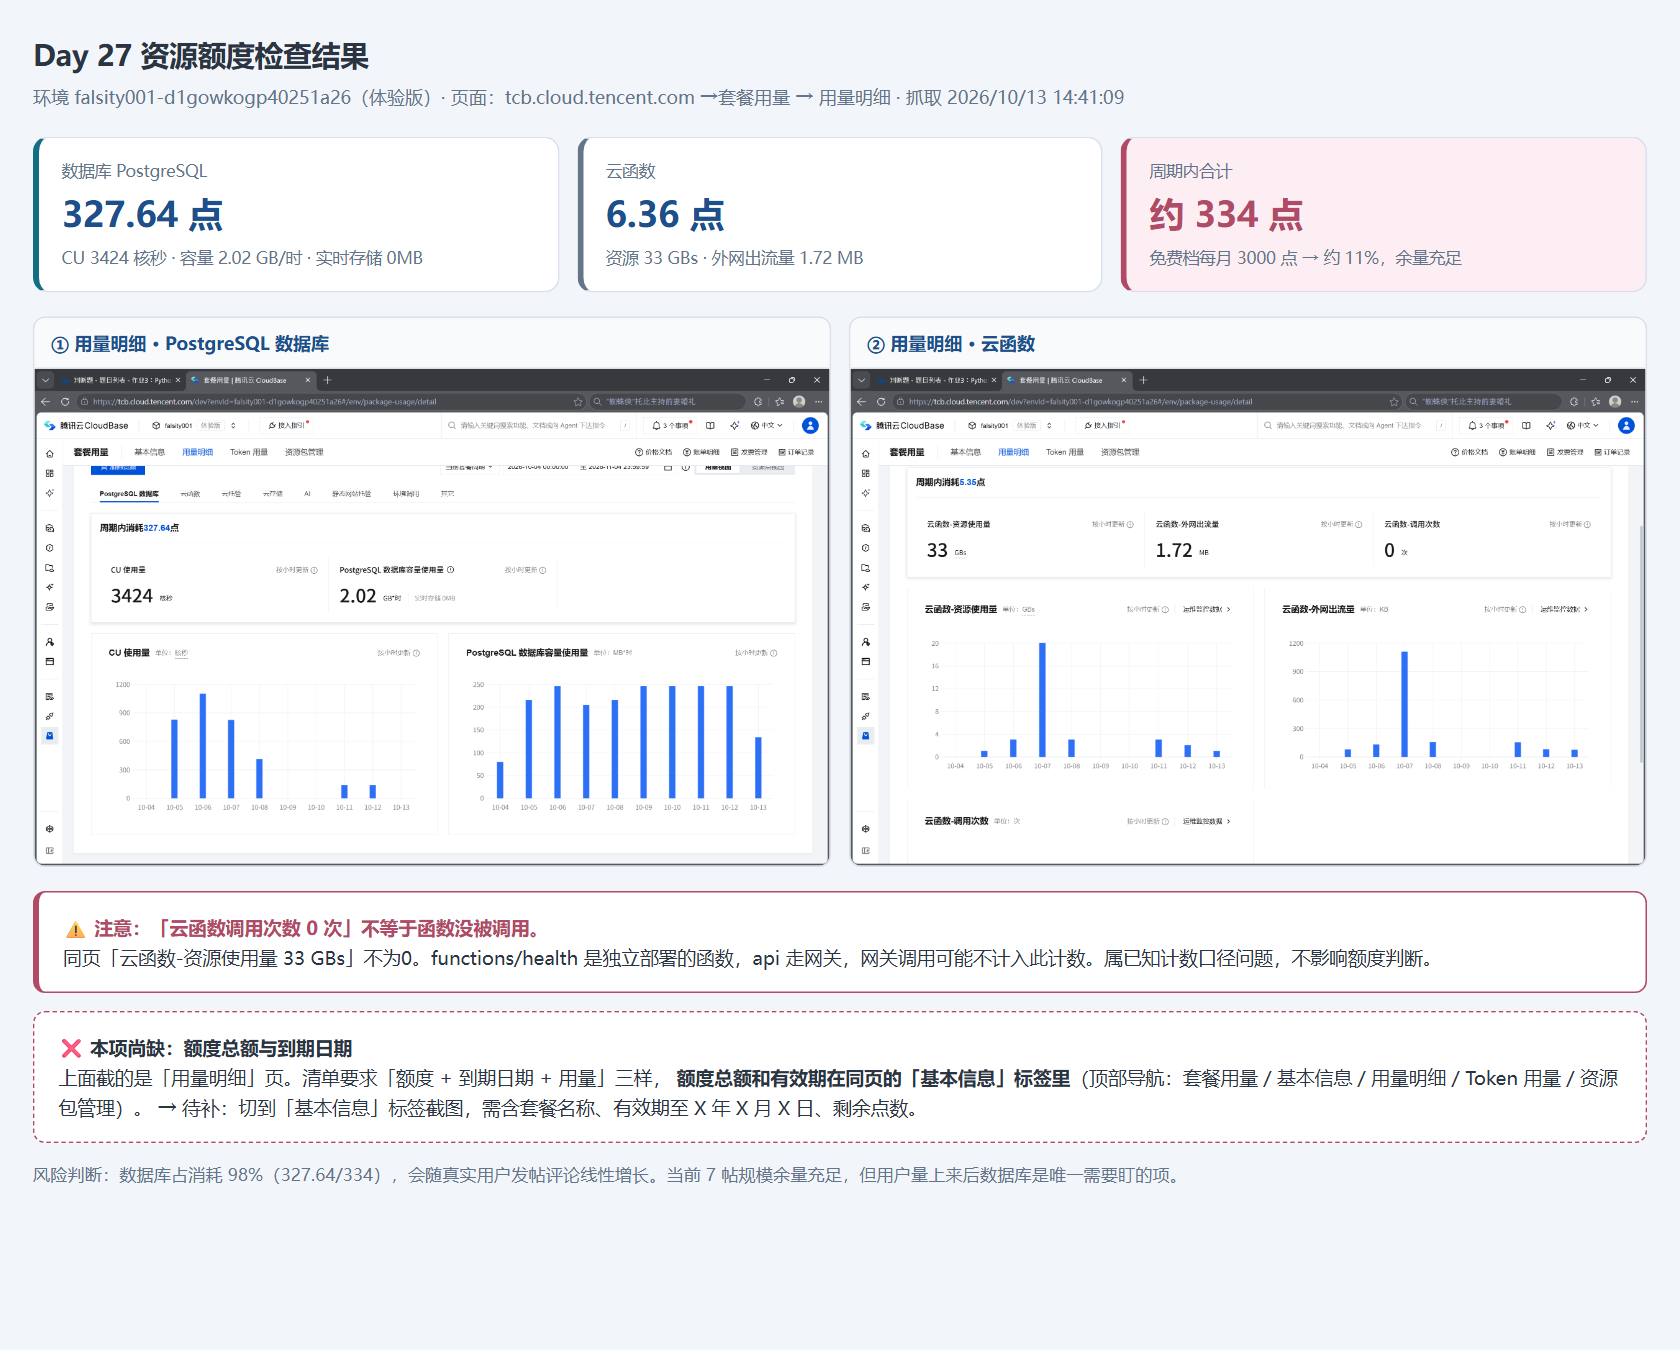
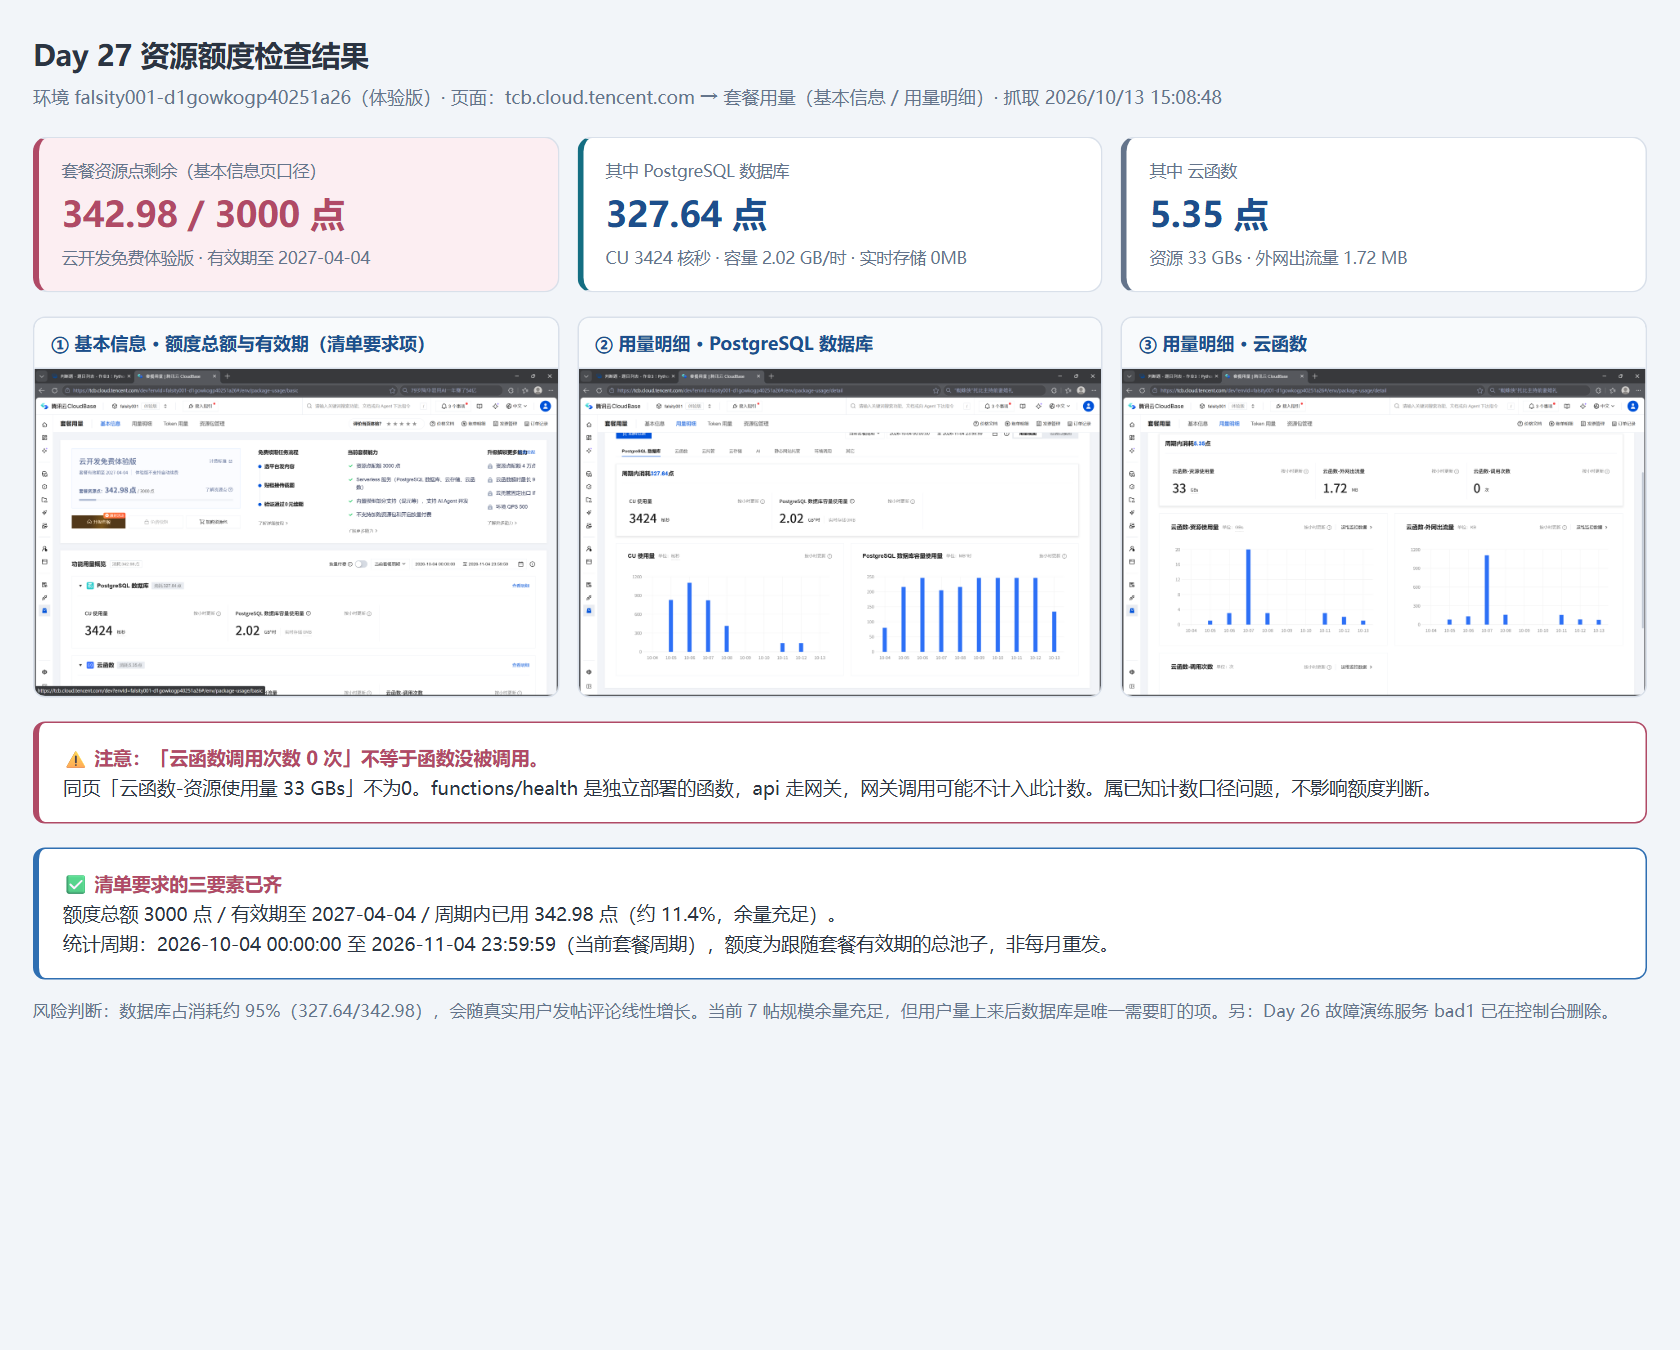
Day 27｜补资源额度「基本信息」页，资源检查项从部分完成改为已完成
改了什么：day27-第三方试用记录.md 的资源章节重写，补额度总额 3000 点、有效期至 2027-04-04、已用 342.98 点（11.4%），并纠正「每月 3000 点」为「跟随套餐有效期的总池子」；云函数消耗按基本信息页口径订正为 5.35 点。day27-截图2-资源检查结果.png 重新生成，把基本信息页并入取证图，删掉「尚缺额度与到期」的缺口块。
加了什么：day27-out/资源检查-基本信息页.png，CloudBase 套餐用量基本信息页原始截图。

diff --git a/day27-第三方试用记录.md b/day27-第三方试用记录.md
@@ -85,32 +85,36 @@ GET /api/posts → 200，count = 7（与试用前一致）
 
 ## 三、资源额度检查
 
-### 已查到（`day27-截图2-资源检查-云函数用量.png` + PostgreSQL 截图）
+### 清单要求的三要素（已齐）
+
+| 项目 | 数值 | 出处 |
+|---|---|---|
+| **额度总额** | **3000 点**（资源点配额） | 基本信息页 · 当前套餐能力 |
+| **有效期至** | **2027-04-04**（套餐有效期，不支持自动续费） | 基本信息页 · 云开发免费体验版 |
+| **周期内已用** | **342.98 点** → 约 **11.4%** | 基本信息页 · 套餐资源点 |
+| 统计周期 | 2026-10-04 00:00:00～ 2026-11-04 23:59:59（当前套餐周期） | 基本信息页 · 功能用量概览 |
+
+> 额度是**跟随套餐有效期的总池子**，不是每月重发，所以「每月 3000 点」这个说法不准确。
+
+### 周期内消耗拆分（用量明细页）
 
 | 项目 | 周期内消耗 | 折算用量 |
 |---|---|---|
 | **数据库（PostgreSQL）** | **327.64 点** | CU 3424核秒 · 容量 2.02 GB/时（**实时存储 0MB**） |
-| **云函数** | **6.36 点** | 资源使用 33 GBs · 外网出流量 1.72 MB · 调用次数 0 次 |
-| **合计** | **约 334 点** | 免费档每月 3000 点 → **约 11%** |
+| **云函数** | **5.35 点** | 资源使用 33 GBs · 外网出流量 1.72 MB · 调用次数 0 次 |
+| **合计** | **342.98 点** | 与基本信息页「套餐资源点」口径一致 |
 
-### ⚠ 两件需要你确认/注意的事
+### ⚠ 一件需要注意的事
 
-**1. 额度与到期日期没截到**
+**「云函数调用次数 0 次」这个数看着不对**
 
-你这两张是「用量明细」页。**清单要的是「额度 + 到期日期 + 用量」三样**，
-额度总额和有效期在同页的**「基本信息」标签**里（顶部导航：套餐用量 / 基本信息 / 用量明细 / Token 用量 / 资源包管理）。
-
-需要补一张：**「基本信息」标签的截图**，要有套餐名称、有效期至X 年 X 月 X 日、剩余点数。
-
-**2.「云函数调用次数 0 次」这个数看着不对**
-
-但同页「云函数-资源使用量33 GBs」不为0。
+但同页「云函数-资源使用量 33 GBs」不为0。
 原因：`functions/health` 是 Day 15 独立部署的函数，Day 22 之后线上 api 走网关，**网关调用可能不计入这个计数**。
 → 这条属于「已知计数口径问题」，不影响额度判断，但**别把它当成「函数没被调用过」**。
 
 ### 免费额度会不会突然不够
 
-当前用量 334 点 / 3000 点，余量充足。风险点在数据库：327.64 点里绝大部分是**数据库**消耗，而数据库用量会随真实用户发帖/评论线性增长。现在 7 帖 10 人以内完全没压力。
+当前用量 342.98 点 / 3000 点，余量充足。风险点在数据库：327.64 点里绝大部分是**数据库**消耗（占 95%），而数据库用量会随真实用户发帖/评论线性增长。现在 7 帖 10 人以内完全没压力。
 
 ---
 
@@ -120,7 +124,7 @@ GET /api/posts → 200，count = 7（与试用前一致）
 |---|---|---|
 | 一位没参与项目的真人完成核心流程 | ✅ 已完成 | 有手机实拍 + 线上接口交叉验证 |
 | 最高优先级问题已修复 | ✅ 已完成 | 手机版发帖入口，4 宽度实测通过 |
-| 资源额度已检查 | ⚠ **部分完成** | 用量已查（334点/11%），**额度总额与到期日期未截到**，待补「基本信息」页 |
+| 资源额度已检查 | ✅ 已完成 | 额度 3000 点 / 有效期至 2027-04-04 / 已用 342.98 点（11.4%） |
 | 截图：试用记录 | ✅ 已完成 | 手机首页 + 提交成功 |
-| 截图：资源检查（额度/到期/用量） | ⚠ **部分完成** | 用量✅、额度与到期 ❌ |
+| 截图：资源检查（额度/到期/用量） | ✅ 已完成 | `day27-截图2-资源检查结果.png`，含基本信息页与用量明细页 |
 | 余力加练：手机宽度完整打卡流程 | ✅ 已完成 | 375px 全流程实测（发帖入口修复即来自此项） |
